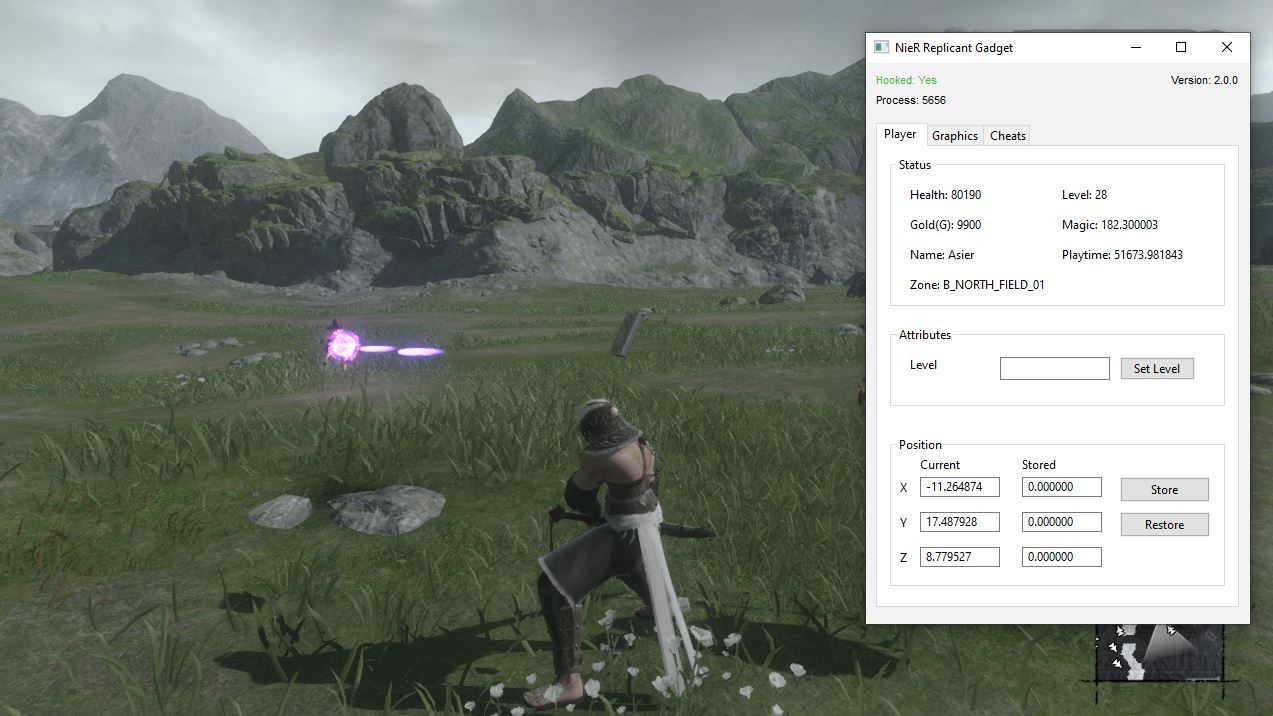
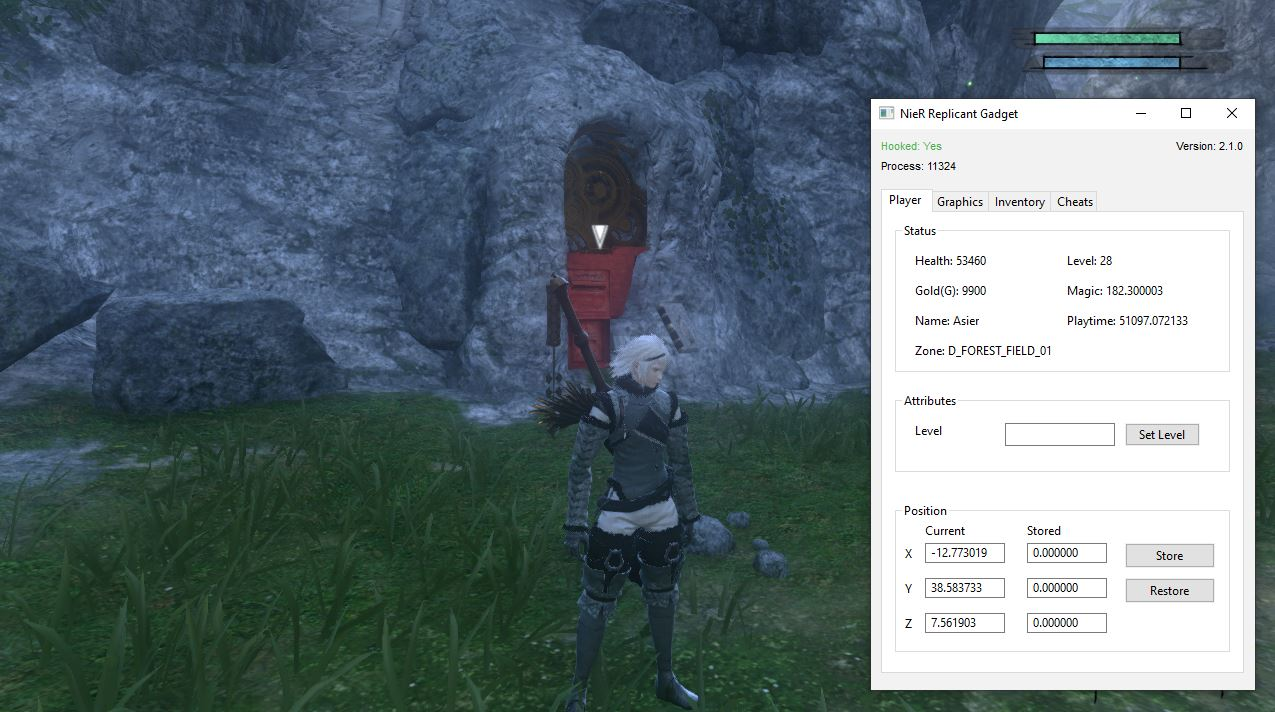
version 2.1.0

diff --git a/README.md b/README.md
@@ -21,16 +21,16 @@ All features will be disabled until Gadget attaches to the game (indicated at th
 
 - `Player Status` - display player status (Health, level, Magic...)
 - `Teleport` - Teleport through the map
+- `Inventory Management` - add/remove items
 - `InfiniteHealth` - enables or disables infinite Health
 - `InfiniteMagic` - enables or disables infinite Magic
 
 ## :clipboard: Release Notes
 
-### Version 2.0.0 | [View Previous Versions](CHANGELOG.md)
+### Version 2.1.0 | [View Previous Versions](CHANGELOG.md)
 
 #### What's new?
 
-- `Patch v1.0.3.0 support`
-- `Teleporting`
+- `Inventory Management`
 
 ## :page_with_curl: [License](LICENSE)

diff --git a/CHANGELOG.md b/CHANGELOG.md
@@ -1,3 +1,9 @@
+### Version 2.1.0
+
+#### What's new?
+
+- `Inventory Management`
+
 ### Version 2.0.0
 
 #### What's new?
